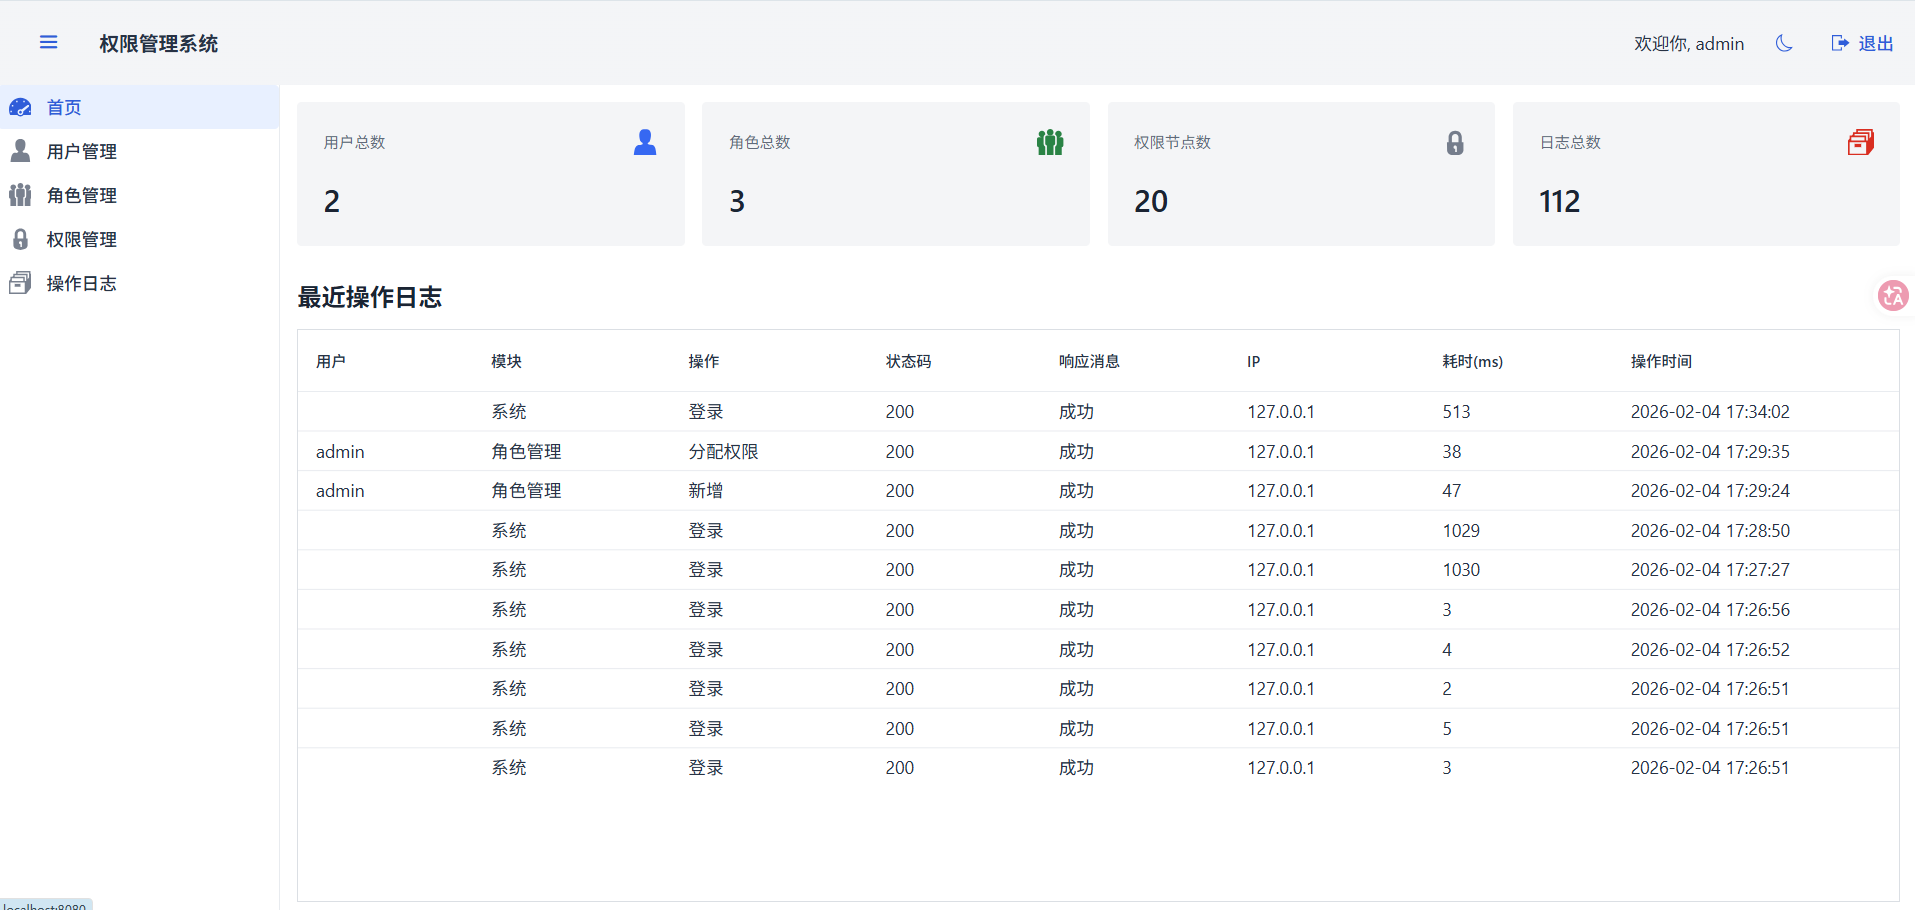
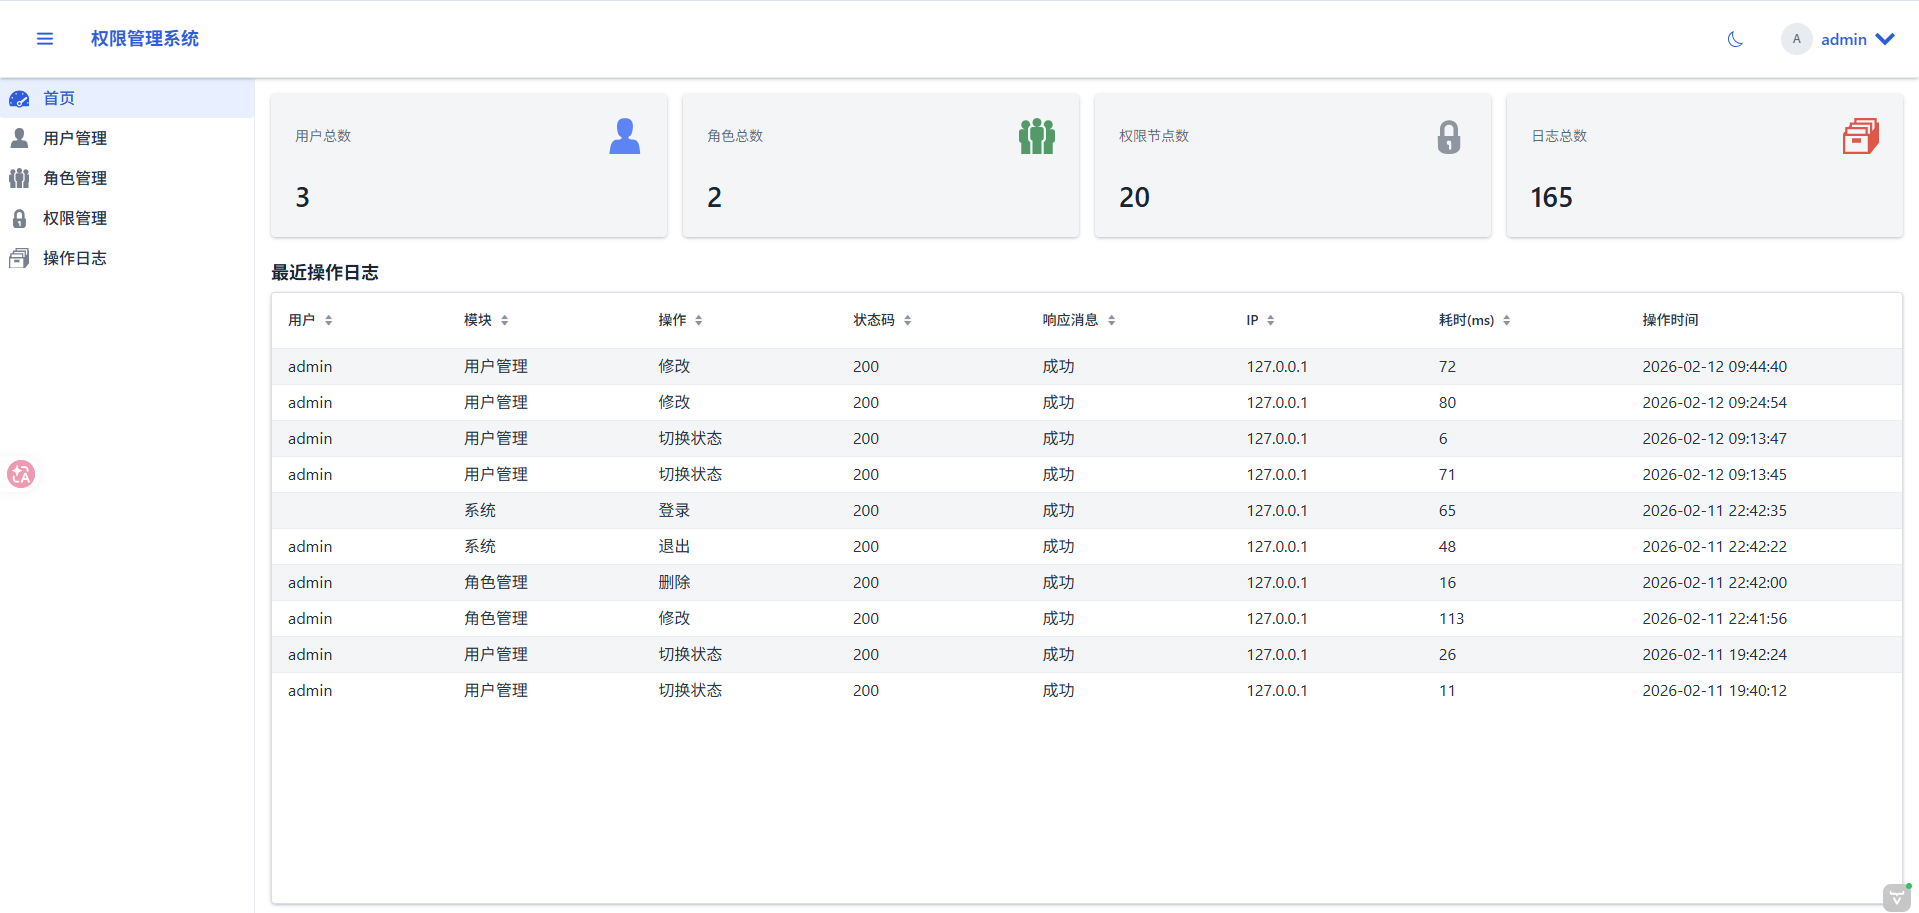
review

diff --git a/README.md b/README.md
@@ -20,6 +20,16 @@
 - ✅ 首页仪表盘（数据统计、最近日志）
 - ✅ 主题切换（Lumo 明暗模式、会话持久化）
 
+## 项目截图
+
+![项目截图1](screenshots/img.png)
+
+![项目截图2](screenshots/img_1.png)
+
+![项目截图3](screenshots/img_2.png)
+
+![项目截图4](screenshots/img_3.png)
+
 ## 项目结构
 
 ```
